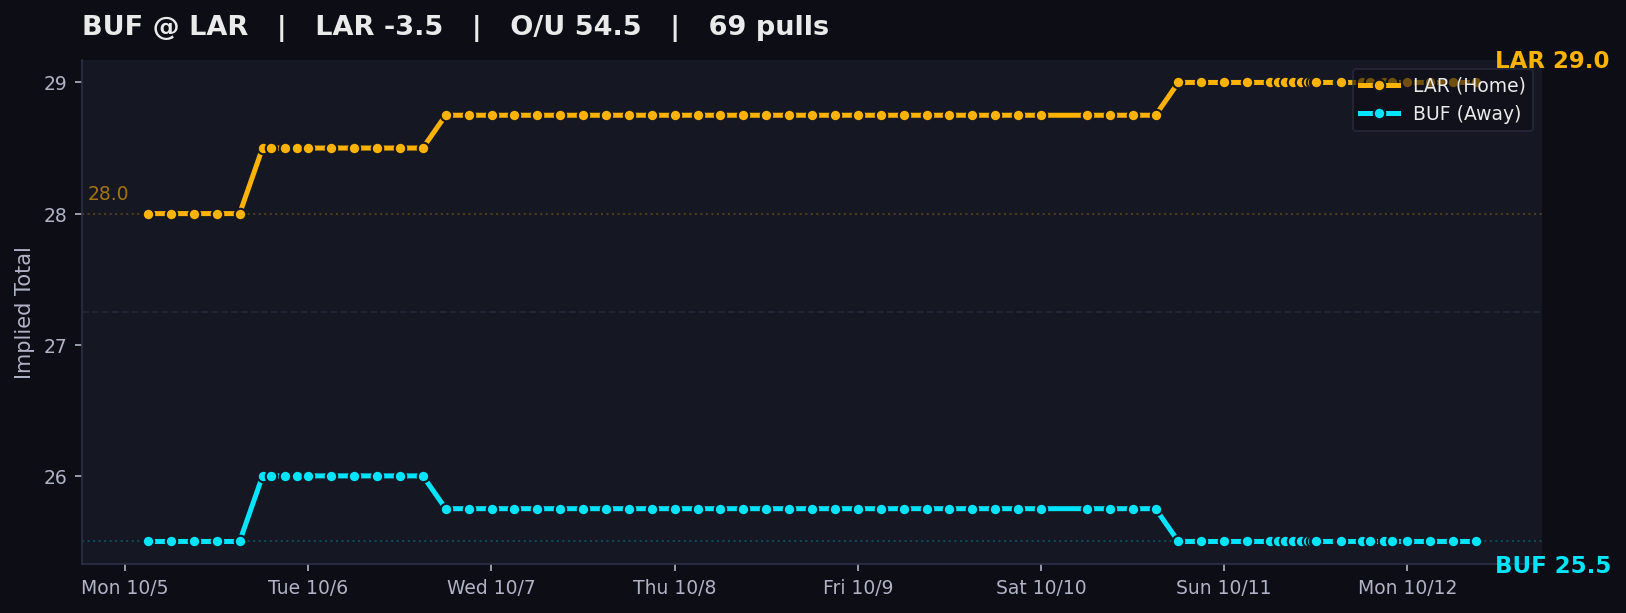
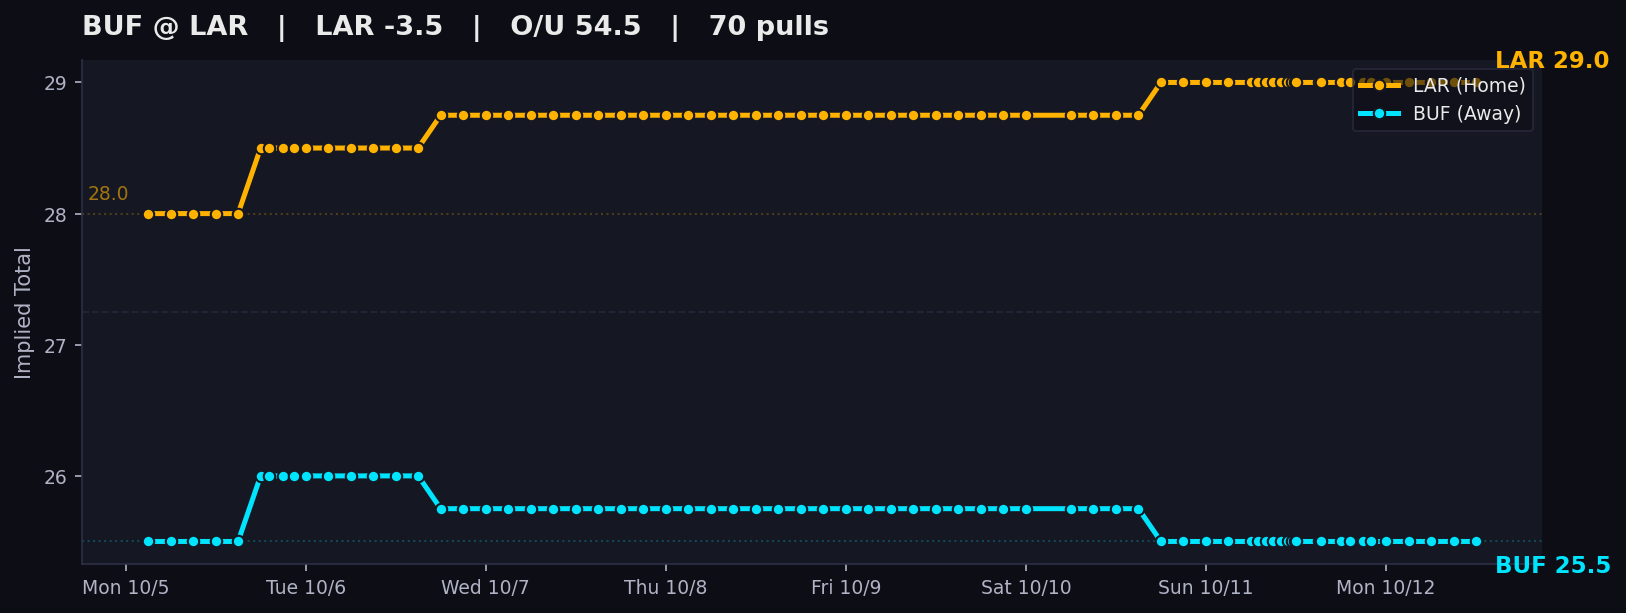
auto: local tracker sync

diff --git a/charts/index.html b/charts/index.html
@@ -311,7 +311,7 @@
     </div>
     <p class='sub'>
       DraftKings main lines &middot; Pinnacle cross-check &middot; Updated by the local Mac tracker<br>
-      Page rendered Mon Oct 12, 2026 9:00 AM CDT &middot; 1083 valid chart dots &middot; 1184 total pull attempts
+      Page rendered Mon Oct 12, 2026 12:00 PM CDT &middot; 1084 valid chart dots &middot; 1185 total pull attempts
       <span class='legend-box'>
         <span class='dot-teal'>● Away implied total</span>
         <span class='dot-amber'>● Home implied total</span>
@@ -324,9 +324,9 @@
     </details>
   </header>
 
-  <div id='feed-banner' class='alert-banner healthy' data-banner-kind='healthy' data-feed-ts='2026-10-12T14:00:01.535690+00:00' data-feed-ts-label='Mon Oct 12, 9:00 AM CDT'>
+  <div id='feed-banner' class='alert-banner healthy' data-banner-kind='healthy' data-feed-ts='2026-10-12T17:00:00.951582+00:00' data-feed-ts-label='Mon Oct 12, 12:00 PM CDT'>
             <span class='status-dot'></span>
-            <b>Feed Healthy:</b> All 1 open markets updated. 14 games have started and is showing its final verified pregame line. Board age based on oldest open market: <span id='feed-time'>Mon Oct 12, 9:00 AM CDT</span> (<span id='feed-age-dynamic'>just now</span>).
+            <b>Feed Healthy:</b> All 1 open markets updated. 14 games have started and is showing its final verified pregame line. Board age based on oldest open market: <span id='feed-time'>Mon Oct 12, 12:00 PM CDT</span> (<span id='feed-age-dynamic'>just now</span>).
         </div>
 
   <nav class='filter-bar' aria-label='Filter games by slate'>
@@ -396,7 +396,7 @@
                 <div><span>Last valid pull</span><strong>Thu 6:00 PM CT</strong></div>
                 <div><span>Chart dots</span><strong>69</strong></div>
             </div>
-                    <img class='expanded-chart' src='TB_DAL.png?v=1791813618' alt='TB at DAL line movement chart'>
+                    <img class='expanded-chart' src='TB_DAL.png?v=1791824420' alt='TB at DAL line movement chart'>
                     <p class='movement-note'>Total 47.5 → 49.5</p>
                 </div>
             </td>
@@ -437,7 +437,7 @@
                 <div><span>Last valid pull</span><strong>Sun 8:00 AM CT</strong></div>
                 <div><span>Chart dots</span><strong>71</strong></div>
             </div>
-                    <img class='expanded-chart' src='PHI_JAX.png?v=1791813618' alt='PHI at JAX line movement chart'>
+                    <img class='expanded-chart' src='PHI_JAX.png?v=1791824420' alt='PHI at JAX line movement chart'>
                     <p class='movement-note'>Spread JAX -3.0 → -7.5; Total 44.5 → 41.5</p>
                 </div>
             </td>
@@ -478,7 +478,7 @@
                 <div><span>Last valid pull</span><strong>Sun 12:00 PM CT</strong></div>
                 <div><span>Chart dots</span><strong>75</strong></div>
             </div>
-                    <img class='expanded-chart' src='CHI_GB.png?v=1791813618' alt='CHI at GB line movement chart'>
+                    <img class='expanded-chart' src='CHI_GB.png?v=1791824420' alt='CHI at GB line movement chart'>
                     <p class='movement-note'>Spread CHI +2.5 → -1.5; Total 45.5 → 46.5</p>
                 </div>
             </td>
@@ -513,7 +513,7 @@
                 <div><span>Last valid pull</span><strong>Sun 12:00 PM CT</strong></div>
                 <div><span>Chart dots</span><strong>64</strong></div>
             </div>
-                    <img class='expanded-chart' src='IND_PIT.png?v=1791813618' alt='IND at PIT line movement chart'>
+                    <img class='expanded-chart' src='IND_PIT.png?v=1791824420' alt='IND at PIT line movement chart'>
                     <p class='movement-note'>Spread PIT -2.5 → -3.0; Total 44.5 → 41.5</p>
                 </div>
             </td>
@@ -548,7 +548,7 @@
                 <div><span>Last valid pull</span><strong>Sun 12:00 PM CT</strong></div>
                 <div><span>Chart dots</span><strong>73</strong></div>
             </div>
-                    <img class='expanded-chart' src='MIN_NO.png?v=1791813618' alt='MIN at NO line movement chart'>
+                    <img class='expanded-chart' src='MIN_NO.png?v=1791824420' alt='MIN at NO line movement chart'>
                     <p class='movement-note'>Total 44.5 → 41.5</p>
                 </div>
             </td>
@@ -583,7 +583,7 @@
                 <div><span>Last valid pull</span><strong>Sun 12:00 PM CT</strong></div>
                 <div><span>Chart dots</span><strong>68</strong></div>
             </div>
-                    <img class='expanded-chart' src='NYG_WAS.png?v=1791813618' alt='NYG at WAS line movement chart'>
+                    <img class='expanded-chart' src='NYG_WAS.png?v=1791824420' alt='NYG at WAS line movement chart'>
                     <p class='movement-note'>Spread WAS -2.5 → -3.5; Total 43.5 → 41.5</p>
                 </div>
             </td>
@@ -618,7 +618,7 @@
                 <div><span>Last valid pull</span><strong>Sun 12:00 PM CT</strong></div>
                 <div><span>Chart dots</span><strong>75</strong></div>
             </div>
-                    <img class='expanded-chart' src='CIN_MIA.png?v=1791813618' alt='CIN at MIA line movement chart'>
+                    <img class='expanded-chart' src='CIN_MIA.png?v=1791824420' alt='CIN at MIA line movement chart'>
                     <p class='movement-note'>Spread CIN -8.5 → -7.0; Total 46.5 → 44.5</p>
                 </div>
             </td>
@@ -653,7 +653,7 @@
                 <div><span>Last valid pull</span><strong>Sun 12:00 PM CT</strong></div>
                 <div><span>Chart dots</span><strong>75</strong></div>
             </div>
-                    <img class='expanded-chart' src='HOU_TEN.png?v=1791813618' alt='HOU at TEN line movement chart'>
+                    <img class='expanded-chart' src='HOU_TEN.png?v=1791824420' alt='HOU at TEN line movement chart'>
                     <p class='movement-note'>Total 39.5 → 37.5</p>
                 </div>
             </td>
@@ -688,7 +688,7 @@
                 <div><span>Last valid pull</span><strong>Sun 12:00 PM CT</strong></div>
                 <div><span>Chart dots</span><strong>64</strong></div>
             </div>
-                    <img class='expanded-chart' src='CLE_NYJ.png?v=1791813618' alt='CLE at NYJ line movement chart'>
+                    <img class='expanded-chart' src='CLE_NYJ.png?v=1791824420' alt='CLE at NYJ line movement chart'>
                     <p class='movement-note'>Spread NYJ -1.5 → -2.5; Total 39.5 → 38.5</p>
                 </div>
             </td>
@@ -723,7 +723,7 @@
                 <div><span>Last valid pull</span><strong>Sun 12:00 PM CT</strong></div>
                 <div><span>Chart dots</span><strong>75</strong></div>
             </div>
-                    <img class='expanded-chart' src='LVR_NE.png?v=1791813618' alt='LVR at NE line movement chart'>
+                    <img class='expanded-chart' src='LVR_NE.png?v=1791824420' alt='LVR at NE line movement chart'>
                     <p class='movement-note'>Total 44.5 → 45.5</p>
                 </div>
             </td>
@@ -764,7 +764,7 @@
                 <div><span>Last valid pull</span><strong>Sun 3:20 PM CT</strong></div>
                 <div><span>Chart dots</span><strong>77</strong></div>
             </div>
-                    <img class='expanded-chart' src='DET_ARI.png?v=1791813618' alt='DET at ARI line movement chart'>
+                    <img class='expanded-chart' src='DET_ARI.png?v=1791824420' alt='DET at ARI line movement chart'>
                     <p class='movement-note'>Total 52.5 → 55.5</p>
                 </div>
             </td>
@@ -799,7 +799,7 @@
                 <div><span>Last valid pull</span><strong>Sun 3:20 PM CT</strong></div>
                 <div><span>Chart dots</span><strong>79</strong></div>
             </div>
-                    <img class='expanded-chart' src='SF_SEA.png?v=1791813618' alt='SF at SEA line movement chart'>
+                    <img class='expanded-chart' src='SF_SEA.png?v=1791824420' alt='SF at SEA line movement chart'>
                     <p class='movement-note'>Total 47.5 → 45.5</p>
                 </div>
             </td>
@@ -834,7 +834,7 @@
                 <div><span>Last valid pull</span><strong>Sun 3:00 PM CT</strong></div>
                 <div><span>Chart dots</span><strong>73</strong></div>
             </div>
-                    <img class='expanded-chart' src='DEN_LAC.png?v=1791813618' alt='DEN at LAC line movement chart'>
+                    <img class='expanded-chart' src='DEN_LAC.png?v=1791824420' alt='DEN at LAC line movement chart'>
                     <p class='movement-note'>Spread DEN -2.5 → -3.5; Total 43.5 → 42.5</p>
                 </div>
             </td>
@@ -875,7 +875,7 @@
                 <div><span>Last valid pull</span><strong>Sun 7:10 PM CT</strong></div>
                 <div><span>Chart dots</span><strong>76</strong></div>
             </div>
-                    <img class='expanded-chart' src='BAL_ATL.png?v=1791813618' alt='BAL at ATL line movement chart'>
+                    <img class='expanded-chart' src='BAL_ATL.png?v=1791824420' alt='BAL at ATL line movement chart'>
                     <p class='movement-note'>Spread ATL +6.0 → -3.5; Total 49.5 → 43.5</p>
                 </div>
             </td>
@@ -896,8 +896,8 @@
             <td class='it-away'>BUF 25.5</td>
             <td class='it-home'>LAR 29.0</td>
             <td class='reason' title='Spread LAR -2.5 → -3.5; Total 53.5 → 54.5'>Spread LAR -2.5 → -3.5; Total 53.5 → 54.5</td>
-            <td style='text-align:center;'><span class='pill-fresh'>9:00 AM CT</span></td>
-            <td class='snaps'>69</td>
+            <td style='text-align:center;'><span class='pill-fresh'>12:00 PM CT</span></td>
+            <td class='snaps'>70</td>
         </tr>
         <tr id='desktop-panel-BUF_LAR' class='chart-detail-row' data-slate='MNF' data-game-panel='BUF_LAR' hidden>
             <td colspan='12'>
@@ -913,10 +913,10 @@
                 <div><span>Current total</span><strong>54.5</strong></div>
                 <div><span>Away implied</span><strong class='it-away'>BUF 25.5</strong></div>
                 <div><span>Home implied</span><strong class='it-home'>LAR 29.0</strong></div>
-                <div><span>Last valid pull</span><strong>9:00 AM CT</strong></div>
-                <div><span>Chart dots</span><strong>69</strong></div>
+                <div><span>Last valid pull</span><strong>12:00 PM CT</strong></div>
+                <div><span>Chart dots</span><strong>70</strong></div>
             </div>
-                    <img class='expanded-chart' src='BUF_LAR.png?v=1791813618' alt='BUF at LAR line movement chart'>
+                    <img class='expanded-chart' src='BUF_LAR.png?v=1791824420' alt='BUF at LAR line movement chart'>
                     <p class='movement-note'>Spread LAR -2.5 → -3.5; Total 53.5 → 54.5</p>
                 </div>
             </td>
@@ -951,7 +951,7 @@
                 <div><span>Last valid pull</span><strong>Thu 6:00 PM CT</strong></div>
                 <div><span>Chart dots</span><strong>69</strong></div>
             </div>
-                <img class='expanded-chart' src='TB_DAL.png?v=1791813618' alt='TB at DAL line movement chart'>
+                <img class='expanded-chart' src='TB_DAL.png?v=1791824420' alt='TB at DAL line movement chart'>
                 <p class='pull-note'><span class='pull-dot'></span> Every dot is a valid completed pull · 69 chart dots</p>
             </div>
         </article><article class='mobile-game-card closed-game' data-slate='OTHER_PRIMETIME' data-game='PHI_JAX'>
@@ -978,7 +978,7 @@
                 <div><span>Last valid pull</span><strong>Sun 8:00 AM CT</strong></div>
                 <div><span>Chart dots</span><strong>71</strong></div>
             </div>
-                <img class='expanded-chart' src='PHI_JAX.png?v=1791813618' alt='PHI at JAX line movement chart'>
+                <img class='expanded-chart' src='PHI_JAX.png?v=1791824420' alt='PHI at JAX line movement chart'>
                 <p class='pull-note'><span class='pull-dot'></span> Every dot is a valid completed pull · 71 chart dots</p>
             </div>
         </article><article class='mobile-game-card closed-game' data-slate='SUN_EARLY' data-game='CHI_GB'>
@@ -1005,7 +1005,7 @@
                 <div><span>Last valid pull</span><strong>Sun 12:00 PM CT</strong></div>
                 <div><span>Chart dots</span><strong>75</strong></div>
             </div>
-                <img class='expanded-chart' src='CHI_GB.png?v=1791813618' alt='CHI at GB line movement chart'>
+                <img class='expanded-chart' src='CHI_GB.png?v=1791824420' alt='CHI at GB line movement chart'>
                 <p class='pull-note'><span class='pull-dot'></span> Every dot is a valid completed pull · 75 chart dots</p>
             </div>
         </article><article class='mobile-game-card closed-game' data-slate='SUN_EARLY' data-game='IND_PIT'>
@@ -1032,7 +1032,7 @@
                 <div><span>Last valid pull</span><strong>Sun 12:00 PM CT</strong></div>
                 <div><span>Chart dots</span><strong>64</strong></div>
             </div>
-                <img class='expanded-chart' src='IND_PIT.png?v=1791813618' alt='IND at PIT line movement chart'>
+                <img class='expanded-chart' src='IND_PIT.png?v=1791824420' alt='IND at PIT line movement chart'>
                 <p class='pull-note'><span class='pull-dot'></span> Every dot is a valid completed pull · 64 chart dots</p>
             </div>
         </article><article class='mobile-game-card closed-game' data-slate='SUN_EARLY' data-game='MIN_NO'>
@@ -1059,7 +1059,7 @@
                 <div><span>Last valid pull</span><strong>Sun 12:00 PM CT</strong></div>
                 <div><span>Chart dots</span><strong>73</strong></div>
             </div>
-                <img class='expanded-chart' src='MIN_NO.png?v=1791813618' alt='MIN at NO line movement chart'>
+                <img class='expanded-chart' src='MIN_NO.png?v=1791824420' alt='MIN at NO line movement chart'>
                 <p class='pull-note'><span class='pull-dot'></span> Every dot is a valid completed pull · 73 chart dots</p>
             </div>
         </article><article class='mobile-game-card closed-game' data-slate='SUN_EARLY' data-game='NYG_WAS'>
@@ -1086,7 +1086,7 @@
                 <div><span>Last valid pull</span><strong>Sun 12:00 PM CT</strong></div>
                 <div><span>Chart dots</span><strong>68</strong></div>
             </div>
-                <img class='expanded-chart' src='NYG_WAS.png?v=1791813618' alt='NYG at WAS line movement chart'>
+                <img class='expanded-chart' src='NYG_WAS.png?v=1791824420' alt='NYG at WAS line movement chart'>
                 <p class='pull-note'><span class='pull-dot'></span> Every dot is a valid completed pull · 68 chart dots</p>
             </div>
         </article><article class='mobile-game-card closed-game' data-slate='SUN_EARLY' data-game='CIN_MIA'>
@@ -1113,7 +1113,7 @@
                 <div><span>Last valid pull</span><strong>Sun 12:00 PM CT</strong></div>
                 <div><span>Chart dots</span><strong>75</strong></div>
             </div>
-                <img class='expanded-chart' src='CIN_MIA.png?v=1791813618' alt='CIN at MIA line movement chart'>
+                <img class='expanded-chart' src='CIN_MIA.png?v=1791824420' alt='CIN at MIA line movement chart'>
                 <p class='pull-note'><span class='pull-dot'></span> Every dot is a valid completed pull · 75 chart dots</p>
             </div>
         </article><article class='mobile-game-card closed-game' data-slate='SUN_EARLY' data-game='HOU_TEN'>
@@ -1140,7 +1140,7 @@
                 <div><span>Last valid pull</span><strong>Sun 12:00 PM CT</strong></div>
                 <div><span>Chart dots</span><strong>75</strong></div>
             </div>
-                <img class='expanded-chart' src='HOU_TEN.png?v=1791813618' alt='HOU at TEN line movement chart'>
+                <img class='expanded-chart' src='HOU_TEN.png?v=1791824420' alt='HOU at TEN line movement chart'>
                 <p class='pull-note'><span class='pull-dot'></span> Every dot is a valid completed pull · 75 chart dots</p>
             </div>
         </article><article class='mobile-game-card closed-game' data-slate='SUN_EARLY' data-game='CLE_NYJ'>
@@ -1167,7 +1167,7 @@
                 <div><span>Last valid pull</span><strong>Sun 12:00 PM CT</strong></div>
                 <div><span>Chart dots</span><strong>64</strong></div>
             </div>
-                <img class='expanded-chart' src='CLE_NYJ.png?v=1791813618' alt='CLE at NYJ line movement chart'>
+                <img class='expanded-chart' src='CLE_NYJ.png?v=1791824420' alt='CLE at NYJ line movement chart'>
                 <p class='pull-note'><span class='pull-dot'></span> Every dot is a valid completed pull · 64 chart dots</p>
             </div>
         </article><article class='mobile-game-card closed-game' data-slate='SUN_EARLY' data-game='LVR_NE'>
@@ -1194,7 +1194,7 @@
                 <div><span>Last valid pull</span><strong>Sun 12:00 PM CT</strong></div>
                 <div><span>Chart dots</span><strong>75</strong></div>
             </div>
-                <img class='expanded-chart' src='LVR_NE.png?v=1791813618' alt='LVR at NE line movement chart'>
+                <img class='expanded-chart' src='LVR_NE.png?v=1791824420' alt='LVR at NE line movement chart'>
                 <p class='pull-note'><span class='pull-dot'></span> Every dot is a valid completed pull · 75 chart dots</p>
             </div>
         </article><article class='mobile-game-card closed-game' data-slate='SUN_LATE' data-game='DET_ARI'>
@@ -1221,7 +1221,7 @@
                 <div><span>Last valid pull</span><strong>Sun 3:20 PM CT</strong></div>
                 <div><span>Chart dots</span><strong>77</strong></div>
             </div>
-                <img class='expanded-chart' src='DET_ARI.png?v=1791813618' alt='DET at ARI line movement chart'>
+                <img class='expanded-chart' src='DET_ARI.png?v=1791824420' alt='DET at ARI line movement chart'>
                 <p class='pull-note'><span class='pull-dot'></span> Every dot is a valid completed pull · 77 chart dots</p>
             </div>
         </article><article class='mobile-game-card closed-game' data-slate='SUN_LATE' data-game='SF_SEA'>
@@ -1248,7 +1248,7 @@
                 <div><span>Last valid pull</span><strong>Sun 3:20 PM CT</strong></div>
                 <div><span>Chart dots</span><strong>79</strong></div>
             </div>
-                <img class='expanded-chart' src='SF_SEA.png?v=1791813618' alt='SF at SEA line movement chart'>
+                <img class='expanded-chart' src='SF_SEA.png?v=1791824420' alt='SF at SEA line movement chart'>
                 <p class='pull-note'><span class='pull-dot'></span> Every dot is a valid completed pull · 79 chart dots</p>
             </div>
         </article><article class='mobile-game-card closed-game' data-slate='SUN_LATE' data-game='DEN_LAC'>
@@ -1275,7 +1275,7 @@
                 <div><span>Last valid pull</span><strong>Sun 3:00 PM CT</strong></div>
                 <div><span>Chart dots</span><strong>73</strong></div>
             </div>
-                <img class='expanded-chart' src='DEN_LAC.png?v=1791813618' alt='DEN at LAC line movement chart'>
+                <img class='expanded-chart' src='DEN_LAC.png?v=1791824420' alt='DEN at LAC line movement chart'>
                 <p class='pull-note'><span class='pull-dot'></span> Every dot is a valid completed pull · 73 chart dots</p>
             </div>
         </article><article class='mobile-game-card closed-game' data-slate='SNF' data-game='BAL_ATL'>
@@ -1302,7 +1302,7 @@
                 <div><span>Last valid pull</span><strong>Sun 7:10 PM CT</strong></div>
                 <div><span>Chart dots</span><strong>76</strong></div>
             </div>
-                <img class='expanded-chart' src='BAL_ATL.png?v=1791813618' alt='BAL at ATL line movement chart'>
+                <img class='expanded-chart' src='BAL_ATL.png?v=1791824420' alt='BAL at ATL line movement chart'>
                 <p class='pull-note'><span class='pull-dot'></span> Every dot is a valid completed pull · 76 chart dots</p>
             </div>
         </article><article class='mobile-game-card ' data-slate='MNF' data-game='BUF_LAR'>
@@ -1326,11 +1326,11 @@
                 <div><span>Current total</span><strong>54.5</strong></div>
                 <div><span>Away implied</span><strong class='it-away'>BUF 25.5</strong></div>
                 <div><span>Home implied</span><strong class='it-home'>LAR 29.0</strong></div>
-                <div><span>Last valid pull</span><strong>9:00 AM CT</strong></div>
-                <div><span>Chart dots</span><strong>69</strong></div>
+                <div><span>Last valid pull</span><strong>12:00 PM CT</strong></div>
+                <div><span>Chart dots</span><strong>70</strong></div>
             </div>
-                <img class='expanded-chart' src='BUF_LAR.png?v=1791813618' alt='BUF at LAR line movement chart'>
-                <p class='pull-note'><span class='pull-dot'></span> Every dot is a valid completed pull · 69 chart dots</p>
+                <img class='expanded-chart' src='BUF_LAR.png?v=1791824420' alt='BUF at LAR line movement chart'>
+                <p class='pull-note'><span class='pull-dot'></span> Every dot is a valid completed pull · 70 chart dots</p>
             </div>
         </article>
   </section>
